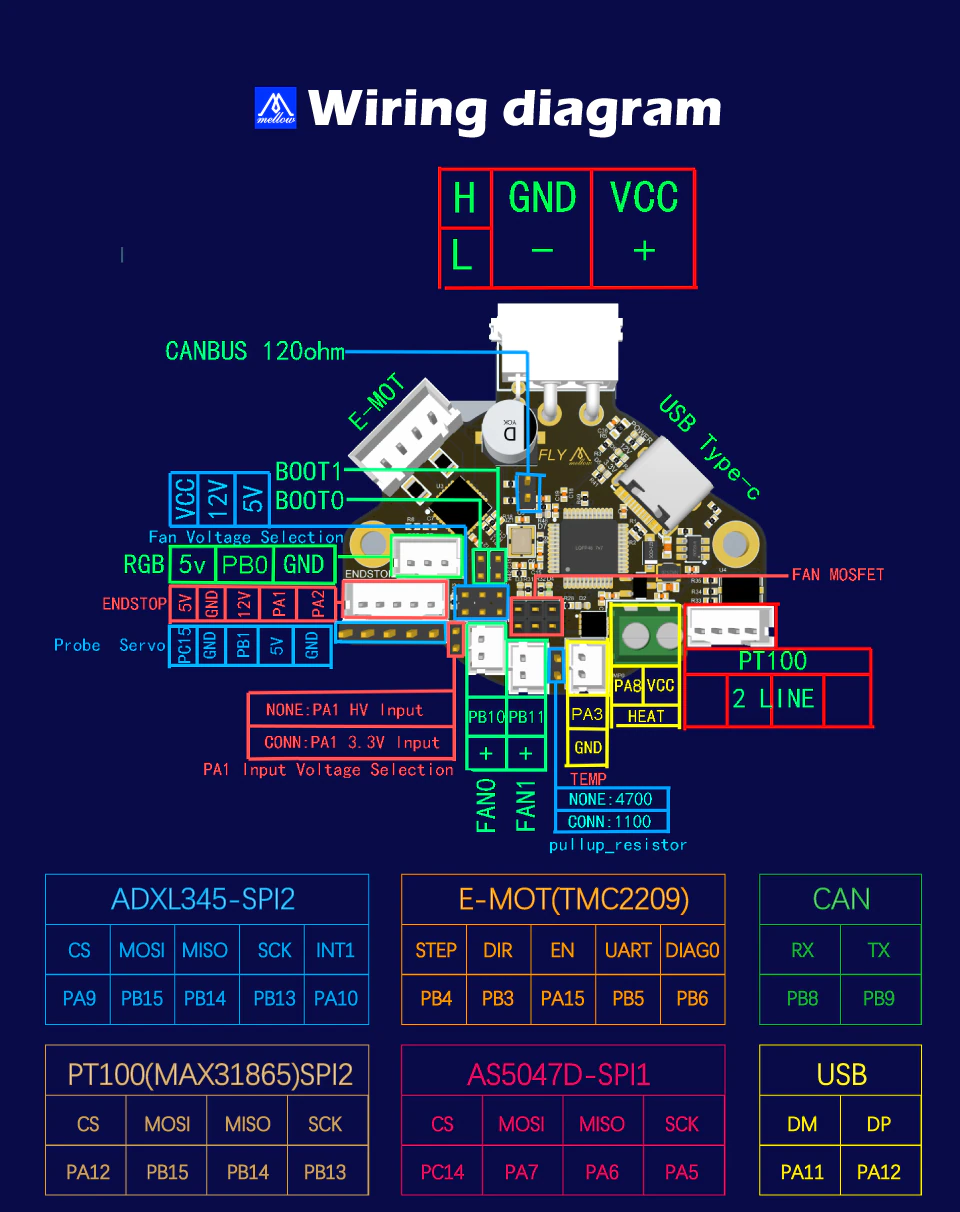
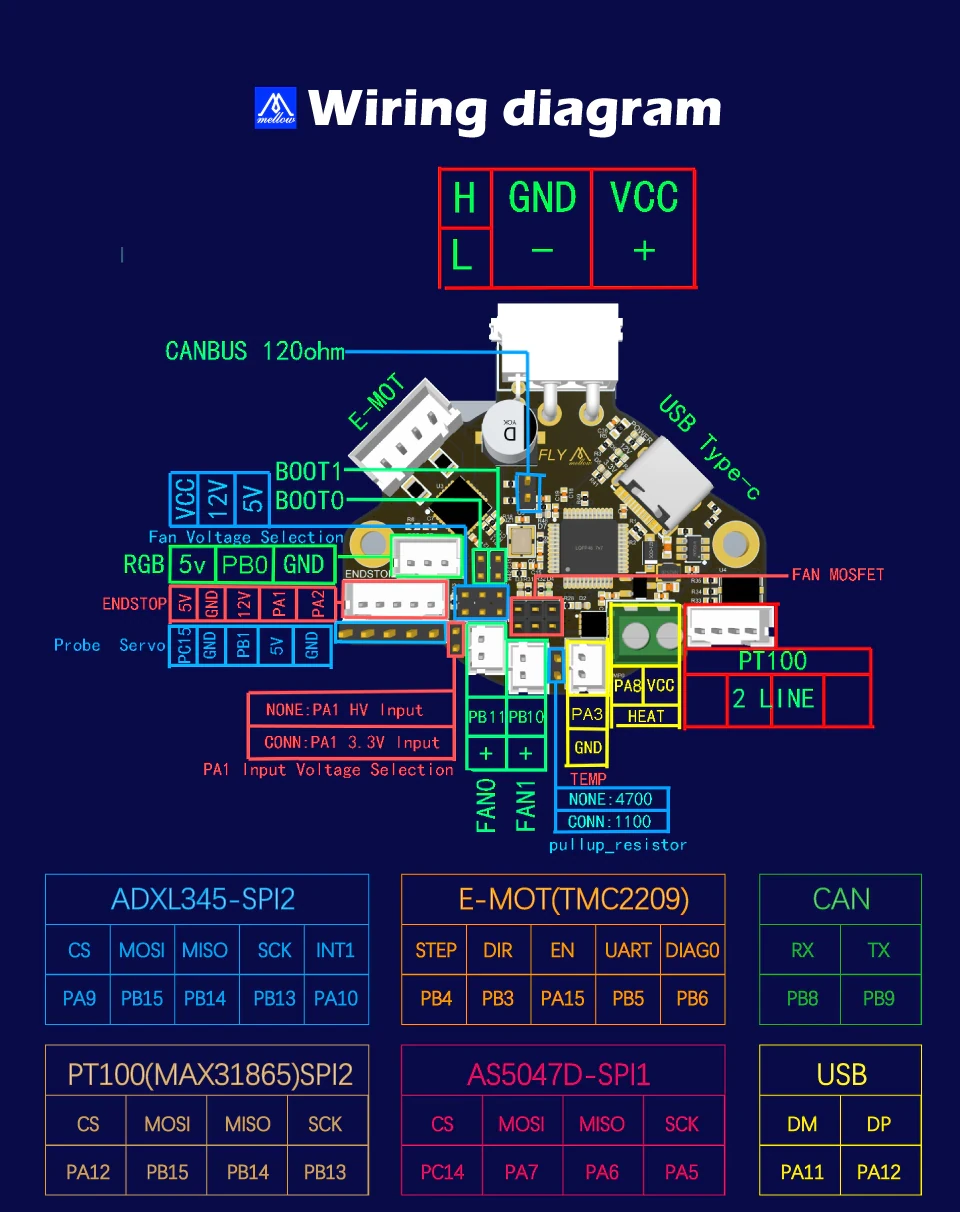
shtv2_fans

diff --git a/_includes/custom/can/sht_v2_pins.html b/_includes/custom/can/sht_v2_pins.html
@@ -13,6 +13,8 @@
   caption=klipcom_cap1
   %}
 
+
+{% include important.html content="There is an error in the SHT-36 V2 silk screen. FAN 0 is PB11 and FAN1 is PB10 " %}
 ### Table of pin functions
 
 <div class="datatable-begin"></div>
@@ -35,8 +37,8 @@
 |**Hotend**  |PT100 | **PA3** | PT100 |
 |**Probe** |Servo position | **PB1** | PROBE_2 |
 |**probe** |Probe | **PC15** | PROBE_1 |
-|**Fans** |Fan 0	| **PB10** | FAN0 |
-|**Fans** |Fan 1	| **PB11** | FAN1 |
+|**Fans** |Fan 0	| **PB11** | FAN0 |
+|**Fans** |Fan 1	| **PB10** | FAN1 |
 |**SPI1** |MISO | **PA6** | |
 |**SPI1** |MOSI | **PA7** | |
 |**SPI1** |CLK | **PA5** | |

diff --git a/_includes/custom/can/sht_overview.html b/_includes/custom/can/sht_overview.html
@@ -24,6 +24,10 @@ alt=overcap1
 caption=overcap1
 %}
 
+{% if mcu == "SHT-36 V2" %}
+ {% include important.html content="There is an error in the SHT-36 V2 silk screen. FAN 0 is PB11 and FAN1 is PB10 " %}
+{% endif %}
+
 ### Product Features
 
  - CAN bus connection for stable data transmission over long distaces. 

diff --git a/_includes/custom/can/fly-sht_cfg.html b/_includes/custom/can/fly-sht_cfg.html
@@ -10,7 +10,7 @@ aliases_endstop:
 aliases_probe: 
     PROBE_1=PC15,PROBE_2=PB1
 aliases_cnc_fans:
-    FAN0=PB10,FAN1=PB11
+    FAN0=PB11,FAN1=PB10
 aliases_thermistors:
     TH0=PB0,PT100=PA3
 aliases_heaters:
